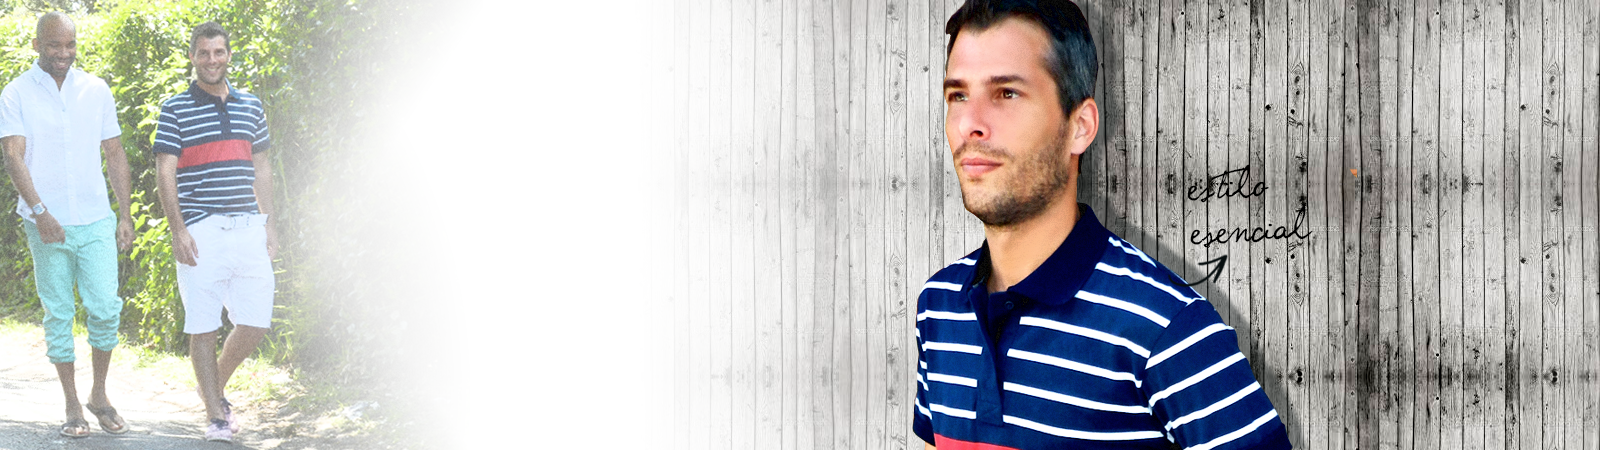
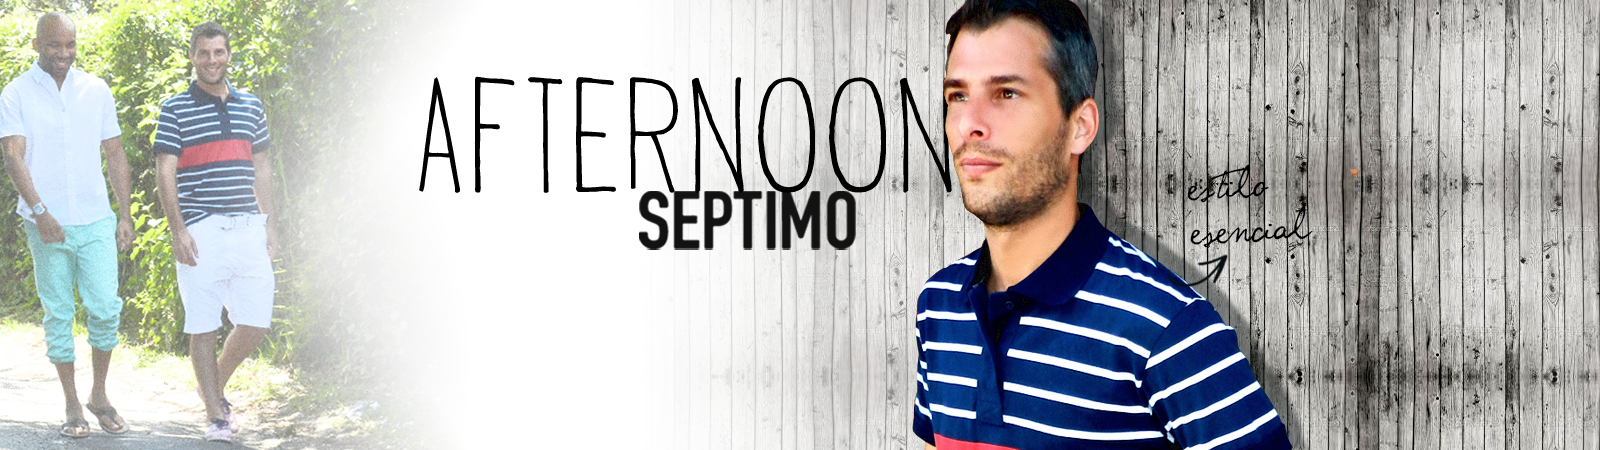
Update sections and its content based on latest Lu's designs.

Changed region(s): [[0.25, 0.1556, 0.5938, 0.56]]

diff --git a/public/index.html b/public/index.html
@@ -51,16 +51,12 @@
         <div class="col-md-12">
 
             <section class="snz-day">
-                <div class="col-md-2 col-md-offset-5">
-                    <h2>day</h2>
-
-                    <h1>septimo</h1>
-                </div>
-                <div class="col-md-5">
+                <div class="col-md-4 col-md-offset-7">
                     <div class="snz-section-content">
-                        <p>Lorem Ipsum es simplemente el texto de relleno de las imprentas<br> y archivos de
-                            texto. Lorem Ipsum
-                            ha sido el texto de relleno<br> estándar de las industrias desde el año 1500</p>
+                        <p>
+                            Lorem Ipsum es simplemente el texto de relleno de las imprentas <br> y archivos de texto.
+                            Lorem Ipsum ha sido el texto de relleno <br> estándar de las industrias
+                        </p>
                         <button type="button" class="btn btn-primary">ver la coleccion</button>
                     </div>
                 </div>
@@ -72,19 +68,13 @@
     <div class="row">
         <div class="col-md-12">
             <section class="snz-afternoon">
-                <div class="col-md-5">
-                    <div class="snz-section-content snz-section-content">
-                        <p class="pull-right">Lorem Ipsum es simplemente el texto de relleno de las imprentas<br> y
-                            archivos de
-                            texto. Lorem Ipsum
-                            ha sido el texto de relleno<br> estándar de las industrias desde el año 1500</p>
-                        <button type="button" class="btn btn-primary pull-right">ver la coleccion</button>
+                <div class="col-md-4 col-md-offset-3">
+                    <div class="snz-section-content">
+                        <p>Lorem Ipsum es simplemente el texto de relleno de las imprentas<br> y
+                            archivos de texto. Lorem Ipsum ha sido el texto de relleno<br> estándar de las industrias
+                            desde el año 1500</p>
+                        <button type="button" class="btn btn-primary">ver la coleccion</button>
                     </div>
-                </div>
-                <div class="col-md-2">
-                    <h2>afternoon</h2>
-
-                    <h1>septimo</h1>
                 </div>
             </section>
         </div>
@@ -93,16 +83,10 @@
     <div class="row">
         <div class="col-md-12">
             <section class="snz-night">
-                <div class="col-md-2 col-md-offset-5">
-                    <h2>night</h2>
-
-                    <h1>septimo</h1>
-                </div>
-                <div class="col-md-5">
+                <div class="col-md-4 col-md-offset-6">
                     <div class="snz-section-content">
-                        <p>Lorem Ipsum es simplemente el texto de relleno de las imprentas<br> y archivos de
-                            texto. Lorem Ipsum
-                            ha sido el texto de relleno<br> estándar de las industrias desde el año 1500</p>
+                        <p>Lorem Ipsum es simplemente el texto de relleno de las imprentas<br> y archivos de texto.
+                            Lorem Ipsum ha sido el texto de relleno<br> estándar de las industrias desde el año 1500</p>
                         <button type="button" class="btn btn-primary">ver la coleccion</button>
                     </div>
                 </div>

diff --git a/public/stylesheets/style.css b/public/stylesheets/style.css
@@ -63,27 +63,26 @@ section:not(.snz-contact):not(.snz-divider):not(.snz-footer) {
     min-height: 450px;
 }
 
-section h1, section h2 {
-    text-align: center;
-    font-family: 'DK Pisang', serif;
-}
-
-section h1 {
-    font-weight: bold;
-    margin-top: -20px;
-    font-size: 70px;
-}
-
-section h2 {
-    margin-top: 0;
-    padding-top: 110px;
-    text-transform: uppercase;
-    font-size: 100px;
-}
-
 .snz-section-subtitle {
     font-weight: bold;
     font-size: larger;
+}
+
+.snz-section-content {
+    color: white;
+    text-align: center;
+}
+
+.snz-section-content p {
+    font-weight: bold;
+}
+
+.snz-section-content .btn {
+    margin-top: 5px;
+    font-weight: bold;
+
+    text-transform: uppercase;
+    font-size: large;
 }
 
 section.snz-landing {
@@ -100,6 +99,8 @@ section.snz-landing h1 {
     color: #ffffff;
     font-family: sans-serif;
     font-size: 60px;
+    text-align: center;
+    font-weight: bold;
 }
 
 section.snz-landing img {
@@ -108,15 +109,27 @@ section.snz-landing img {
 }
 
 section.snz-day {
-    background: #ffffff url("../images/section-day.png");
+    background: #76cf9c url("../images/section-day.png");
+}
+
+section.snz-day .snz-section-content {
+    margin-top: 200px;
 }
 
 section.snz-afternoon {
     background: #ffaf68 url("../images/section-afternoon.png");
 }
 
+section.snz-afternoon .snz-section-content {
+    margin-top: 280px;
+}
+
 section.snz-night {
     background: #5bb5c3 url("../images/section-night.png");
+}
+
+section.snz-night .snz-section-content {
+    margin-top: 300px;
 }
 
 section.snz-divider {
@@ -155,22 +168,6 @@ section.snz-footer > .snz-by {
 
 .snz-brand {
     text-transform: uppercase;
-}
-
-.snz-section-content {
-    margin-top: 210px;
-}
-
-.snz-section-content p {
-    font-weight: bold;
-}
-
-.snz-section-content .btn {
-    margin-top: 15px;
-    font-weight: bold;
-
-    text-transform: uppercase;
-    font-size: large;
 }
 
 .snz-social {
